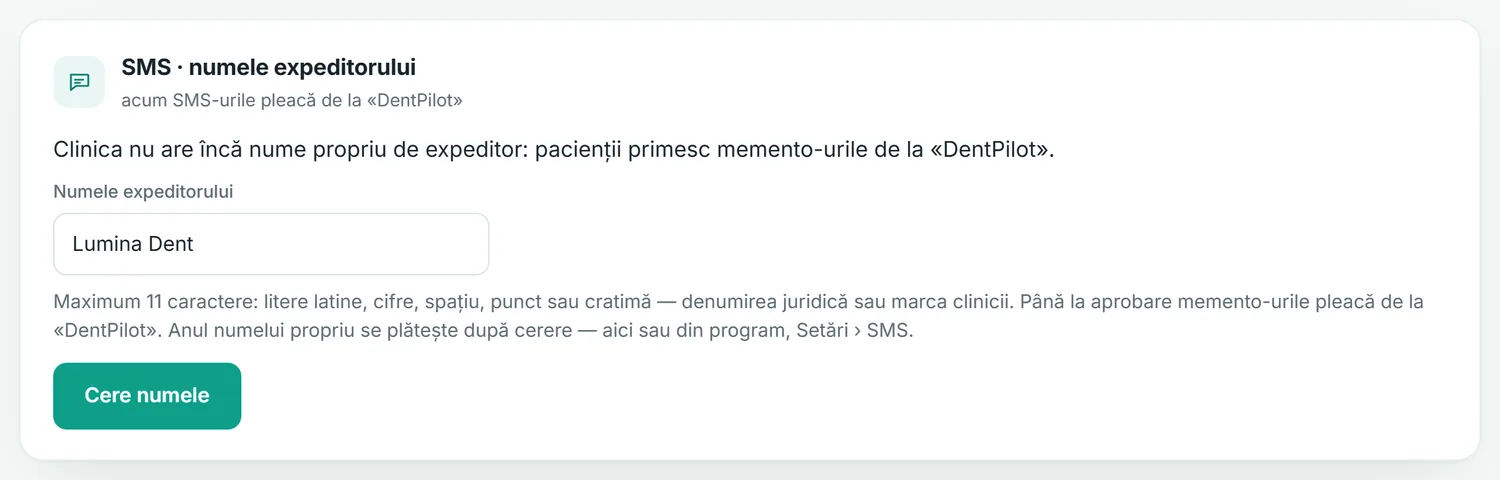
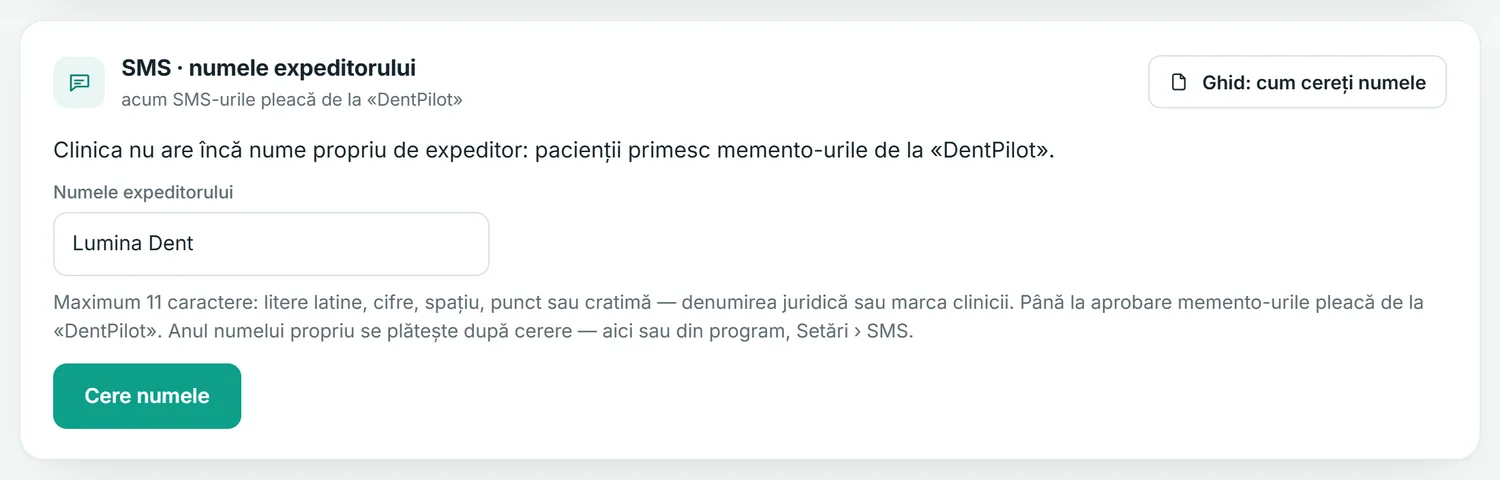
fix(cloud): cabinet SMS-name guide - the pay step no longer says the same sentence twice, frames reshot with the guide link
- Step 4 of the guide repeated "numele propriu se plateste pe un an" back to back: first the words of the
  card, then the price sentence of the payment form. After the card words the note now starts with the
  price and the actions ("Pretul - N MDL pe an. Sub pasi, ..."); the price is still the server price
  list and the whole step is still absent when the name is not sold.
- The four frames in app/assets/ghid-sms/ were taken before the link existed. Reshot from a local stand
  on this branch, so the card in the frames carries "Ghid: cum cereti numele" as the clinic sees it;
  same keys and file names, 14-48 KB, invented clinic, no price in any frame. The steps frame is three
  pixels taller - its height in sms_guide.FRAMES follows the file.
- Two check labels in test_sms_guide.py lose the warning sign; their text is unchanged.

diff --git a/cloud/tests/test_sms_guide.py b/cloud/tests/test_sms_guide.py
@@ -73,7 +73,8 @@ def suite_page(res: Result) -> None:
                r.status == 200 and f"<h1>{sms_guide.TITLE}</h1>" in r.body and "Contul clinicii" in r.body
                and "action='/cont/iesire'" in r.body and "href='/cont#sms'" in r.body, f"{r.status} {r.body[:400]}")
         res.ok("цена года имени на странице — из прайса сервера",
-               "Numele propriu se plătește pe un an: 77 MDL." in _text(r.body) and "Plătiți anul numelui" in r.body)
+               "Numele propriu se plătește pe un an: 77 MDL." in _text(r.body) and "Plătiți anul numelui" in r.body
+               and "Prețul — 77 MDL pe an." in _text(r.body))
         res.ok("на странице нет данных клиники", IDNO not in r.body and "Ion Rusu" not in r.body)
         res.ok("ссылка на гид — в карточке имени, пока имени нет", _link(_pane(c.get("/cont").body, "sms")))
         _add(c, main)
@@ -92,7 +93,7 @@ def suite_page(res: Result) -> None:
         _register(s, c)
         text = _text(c.get(GUIDE).body)
         res.ok("другой прайс сервера — другая цена на странице, прежней нет",
-               "pe un an: 91 MDL." in text and "77" not in text, text[:300])
+               "pe un an: 91 MDL." in text and "Prețul — 91 MDL pe an." in text and "77" not in text, text[:300])
     with Server(env=ENV) as s:
         c = _enter(s, DIRECTOR)
         _register(s, c)
@@ -152,7 +153,7 @@ def suite_words(res: Result) -> None:
             program = "".join(f.read_text(encoding="utf-8", errors="replace")
                               for f in sorted((ROOT / "bot" / "app").rglob("*.py")))
             res.ok("исходники программы нашлись", len(program) > 100_000)
-            res.check("⛔ слова гида в «ёлочках» — те же, что в кабинете (или слово программы, пример)",
+            res.check("слова гида в «ёлочках» — те же, что в кабинете (или слово программы, пример)",
                       [w for w in words if not _named(w, seen) and w not in EXAMPLES
                        and not (w in PROGRAM and w in program)], [])
             res.check("список слов программы не гниёт: каждое названо в гиде", [w for w in PROGRAM if w not in words], [])
@@ -206,7 +207,7 @@ def suite_frames(res: Result) -> None:
                    and hdr.get("cache-control") == "private, max-age=86400", f"{status} {hdr}")
         got = [c.get(f"{GUIDE}/cadru/{k}").status for k in
                ("nimic", "pasi.webp", "..%2Fmodele%2Fbitlocker.html", "%2E%2E%2F%2E%2E%2Fsms.py")]
-        res.check("⛔ кадр — только по ключу словаря: неизвестный ключ, имя файла и путь — 404", got, [404] * 4)
+        res.check("кадр — только по ключу словаря: неизвестный ключ, имя файла и путь — 404", got, [404] * 4)
 
 
 SUITES = [

diff --git a/cloud/app/sms_guide.py b/cloud/app/sms_guide.py
@@ -24,7 +24,7 @@ ASSETS = pathlib.Path(__file__).resolve().parent / "assets" / "ghid-sms"
 # ключ адреса → (файл, ширина, высота, подпись); файл берётся только из этого словаря, не из адреса
 FRAMES = {
     "cere": ("cere-numele.webp", 1500, 480, "Fila «SMS»: câmpul pentru nume și butonul de cerere."),
-    "pasi": ("pasi.webp", 1500, 736, "Pașii din cartelă, după cerere (date de exemplu)."),
+    "pasi": ("pasi.webp", 1500, 739, "Pașii din cartelă, după cerere (date de exemplu)."),
     "operatori": ("la-operatori.webp", 1500, 362, "Cererea este depusă la operatori."),
     "aprobat": ("aprobat.webp", 1500, 335, "Numele este aprobat și plătit: SMS-urile pleacă de la el."),
 }
@@ -102,7 +102,7 @@ def page(acc, price: int, q: str = "") -> str:
              f"este deja folosit sau cerut de altă clinică, contul vă spune și alegeți altul.</p>"
              f"<p>În cont se intră la cloud.dentpilot.md/cont, cu Google sau cu codul primit pe e-mail; din program — "
              f"cu butonul «Deschide contul clinicii», pe pagina «Licență».</p>{_fig('cere')}")
-    pay = step("pay", f"{cost} Sub pași, în aceeași cartelă, bifați «Am citit și accept Termenii și condițiile "
+    pay = step("pay", f"Prețul — {views._mdl(price)} MDL pe an. Sub pași, în aceeași cartelă, bifați «Am citit și accept Termenii și condițiile "
                       f"DentPilot», apoi alegeți {_q(card_btn)} sau {_q(views.NAME_TRANSFER)} (nota vine și pe "
                       f"e-mail). Anul se numără din ziua în care operatorii aprobă numele, nu din ziua plății. După "
                       f"confirmarea plății, la acest pas scrie {_q(views.NAME_PAID)} și "
